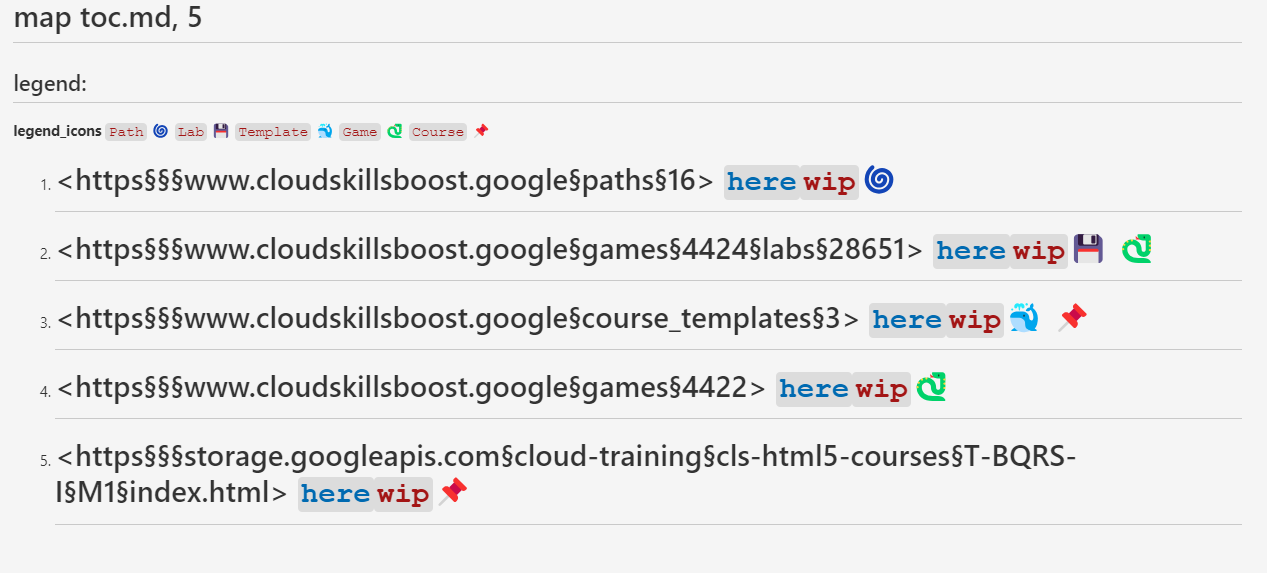
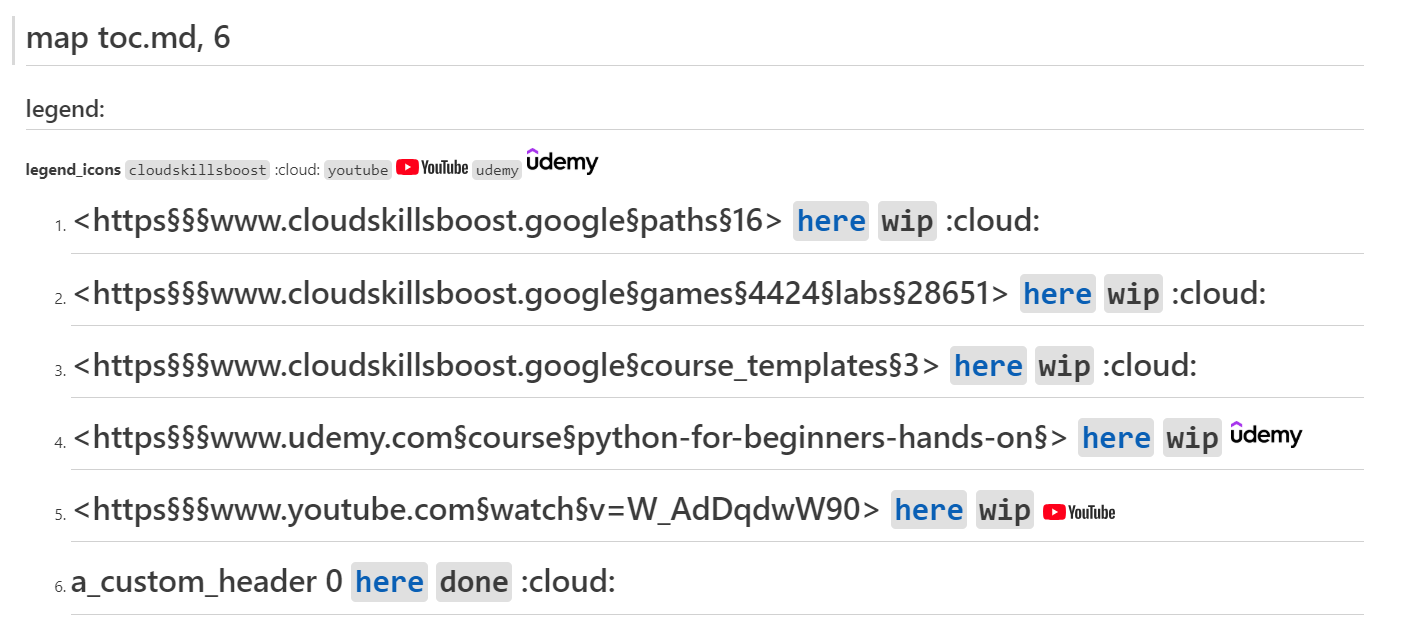
144 add more sample for commons sites like yt udemy coursera etc (#145)

diff --git a/zero_to_one_hundred/tests/tests_zo/test_section.py b/zero_to_one_hundred/tests/tests_zo/test_section.py
@@ -72,54 +72,52 @@ def test_build_from_dir(get_config_map, persist_fs, process_fs):
     )
 
 
-def test_section_is_quest(get_gcp_config_map, persist_fs, process_fs):
+def test_section_is_quest(get_config_map, persist_fs, process_fs):
     http_url = "https://www.cloudskillsboost.google/quests/257"
-    actual = Section(get_gcp_config_map, persist_fs, process_fs, http_url)
+    actual = Section(get_config_map, persist_fs, process_fs, http_url)
     assert actual.is_gcp_quest
 
 
-def test_section_is_lab(get_gcp_config_map, persist_fs, process_fs):
+def test_section_is_lab(get_config_map, persist_fs, process_fs):
     http_url = "https://www.cloudskillsboost.google/course_sessions/3062553/labs"
-    actual = Section(get_gcp_config_map, persist_fs, process_fs, http_url)
+    actual = Section(get_config_map, persist_fs, process_fs, http_url)
     assert actual.is_gcp_lab
 
 
-def test_section_is_template(get_gcp_config_map, persist_fs, process_fs):
+def test_section_is_template(get_config_map, persist_fs, process_fs):
     http_url = "https://www.cloudskillsboost.google/course_templates/536"
-    actual = Section(get_gcp_config_map, persist_fs, process_fs, http_url)
+    actual = Section(get_config_map, persist_fs, process_fs, http_url)
     assert actual.is_gcp_template
 
 
-def test_section_is_gamee(get_gcp_config_map, persist_fs, process_fs):
+def test_section_is_gamee(get_config_map, persist_fs, process_fs):
     http_url = "https://www.cloudskillsboost.google/games/4423"
-    actual = Section(get_gcp_config_map, persist_fs, process_fs, http_url)
+    actual = Section(get_config_map, persist_fs, process_fs, http_url)
     assert actual.is_gcp_game
 
 
-def test_is_datacamp_project(get_datacamp_config_map, persist_fs, process_fs):
+def test_is_datacamp_project(get_config_map, persist_fs, process_fs):
     http_url = "https://app.datacamp.com/learn/projects/1833"
-    actual = Section(get_datacamp_config_map, persist_fs, process_fs, http_url)
+    actual = Section(get_config_map, persist_fs, process_fs, http_url)
     assert actual.is_datacamp_project
 
 
-def test_is_datacamp_tutorial(get_datacamp_config_map, persist_fs, process_fs):
+def test_is_datacamp_tutorial(get_config_map, persist_fs, process_fs):
     http_url = "https://app.datacamp.com/learn/tutorials/git-push-pull"
-    actual = Section(get_datacamp_config_map, persist_fs, process_fs, http_url)
+    actual = Section(get_config_map, persist_fs, process_fs, http_url)
     assert actual.is_datacamp_tutorial
 
 
-def test_is_datacamp_course(get_datacamp_config_map, persist_fs, process_fs):
+def test_is_datacamp_course(get_config_map, persist_fs, process_fs):
     http_url = "https://app.datacamp.com/learn/courses/writing-efficient-python-code"
-    actual = Section(get_datacamp_config_map, persist_fs, process_fs, http_url)
+    actual = Section(get_config_map, persist_fs, process_fs, http_url)
     assert actual.is_datacamp_course
 
 
-def test_gcp_get_format_as_md(get_gcp_config_map, persist_fs, process_fs):
+def test_gcp_get_format_as_md(get_config_map, persist_fs, process_fs):
     http_url = "https://www.cloudskillsboost.google/games/4423"
-    actual = Section.build_from_dir(
-        persist_fs, process_fs, get_gcp_config_map, http_url
-    )
-    assert actual.get_matching_icon_as_md == """:snake:"""
+    actual = Section.build_from_dir(persist_fs, process_fs, get_config_map, http_url)
+    assert actual.get_matching_icon_as_md == ":cloud:"
 
 
 def test_as_mark_down(get_config_map, persist_fs, process_fs, http_url_1):

diff --git a/zero_to_one_hundred/tests/tests_zo/conftest.py b/zero_to_one_hundred/tests/tests_zo/conftest.py
@@ -56,16 +56,6 @@ def get_unsupported_map_yaml_path():
 
 
 @pytest.fixture
-def get_gcp_map_yaml_path():
-    yield get_resource_path + "/gcp_map.yaml"
-
-
-@pytest.fixture
-def get_datacamp_map_yaml_path():
-    yield get_resource_path + "/datacamp_map.yaml"
-
-
-@pytest.fixture
 def get_sample_readme_md_path(get_repo_path):
     yield get_repo_path + "/https§§§cloud.google.com§docs/readme.md"
 
@@ -101,20 +91,6 @@ def env_unsupported_map_yaml(get_unsupported_map_yaml_path):
 
 
 @pytest.fixture
-def env_gcp_map_yaml(get_gcp_map_yaml_path):
-    with mock.patch.dict(os.environ, {AConfigMap.MAP_YAML_PATH: get_gcp_map_yaml_path}):
-        yield
-
-
-@pytest.fixture
-def env_datacamp_map_yaml(get_datacamp_map_yaml_path):
-    with mock.patch.dict(
-        os.environ, {AConfigMap.MAP_YAML_PATH: get_datacamp_map_yaml_path}
-    ):
-        yield
-
-
-@pytest.fixture
 def get_config_map(env_map_yaml, get_map_yaml_path, persist_fs):
     return ZTOHConfigMap(persist_fs)
 
@@ -136,18 +112,6 @@ def get_config_map_sorted_1(
 @pytest.fixture
 def get_unsupported_config_map(
     env_unsupported_map_yaml, get_unsupported_map_yaml_path, persist_fs
-):
-    return ZTOHConfigMap(persist_fs)
-
-
-@pytest.fixture
-def get_gcp_config_map(env_gcp_map_yaml, get_gcp_map_yaml_path, persist_fs):
-    return ZTOHConfigMap(persist_fs)
-
-
-@pytest.fixture
-def get_datacamp_config_map(
-    env_datacamp_map_yaml, get_datacamp_map_yaml_path, persist_fs
 ):
     return ZTOHConfigMap(persist_fs)
 

diff --git a/zero_to_one_hundred/tests/tests_zo/test_ztoh_config_map.py b/zero_to_one_hundred/tests/tests_zo/test_ztoh_config_map.py
@@ -15,32 +15,6 @@ def test_config_map(get_config_map: ZTOHConfigMap):
     assert actual.get_legend_type is None
 
 
-def test_gcp_config_map(get_gcp_config_map: ZTOHConfigMap):
-    actual = get_gcp_config_map
-    assert actual.get_type == ZTOH_MAP
-    assert actual.get_repo_path is not None
-    assert actual.get_repo_map_md == "toc.md"
-    assert actual.get_legend_icons == [
-        ZTOHConfigMap.LegendIcons("Path", ":cyclone:", "path"),
-        ZTOHConfigMap.LegendIcons("Lab", ":floppy_disk:", "lab"),
-        ZTOHConfigMap.LegendIcons("Template", ":whale:", "template"),
-        ZTOHConfigMap.LegendIcons("Game", ":snake:", "game"),
-        ZTOHConfigMap.LegendIcons("Course", ":pushpin:", "course"),
-    ]
-
-
-def test_datacamp_config_map(get_datacamp_config_map: ZTOHConfigMap):
-    actual = get_datacamp_config_map
-    assert actual.get_type == ZTOH_MAP
-    assert actual.get_repo_path is not None
-    assert actual.get_repo_map_md == "toc.md"
-    assert actual.get_legend_icons == [
-        ZTOHConfigMap.LegendIcons("Project", ":cyclone:", "project"),
-        ZTOHConfigMap.LegendIcons("Tutorial", ":floppy_disk:", "tutorial"),
-        ZTOHConfigMap.LegendIcons("Course", ":whale:", "course"),
-    ]
-
-
 def test_unsupported_config_map(get_unsupported_config_map: ZTOHConfigMap):
     actual = get_unsupported_config_map
     assert actual.get_type == "unsupported-map"

diff --git a/zero_to_one_hundred/tests/tests_zo/test_map.py b/zero_to_one_hundred/tests/tests_zo/test_map.py
@@ -27,9 +27,15 @@ def test_as_mark_down(
     current = actual.as_mark_down()
     expected = """
 # map toc.md, 2
+
 ## legend:
 
-1.[`here`](./0to100/https§§§cloud.google.com§zzz/readme.md) `wip`
+**legend_icons**
+`cloudskillsboost` :cloud:
+`youtube` <img src='https://upload.wikimedia.org/wikipedia/commons/b/b8/YouTube_Logo_2017.svg' alt='YouTube Logo' width='64'>
+`udemy` <img src='https://upload.wikimedia.org/wikipedia/commons/thumb/e/e3/Udemy_logo.svg/1920px-Udemy_logo.svg.png' alt='Udemy' width='64'>
+
+1.[`here`](./0to100/https§§§cloud.google.com§zzz/readme.md) `wip` 
 1.[`here`](./0to100/https§§§cloud.google.com§abc/readme.md) `wip`
 """
     assert str_relaxed(current) == str_relaxed(expected)

diff --git a/zero_to_one_hundred/tests/tests_zo/test_ztoh_factory_provider.py b/zero_to_one_hundred/tests/tests_zo/test_ztoh_factory_provider.py
@@ -16,6 +16,6 @@ def test_pass(get_config_map, persist_fs, process_fs):
     assert isinstance(actual.provide(), ZTOHFactory)
 
 
-def test_provide__unsupported(env_unsupported_map_yaml, persist_fs, process_fs):
+def test_provide_unsupported(env_unsupported_map_yaml, persist_fs, process_fs):
     with pytest.raises(NotImplementedError):
         ZTOHFactoryProvider(persist_fs, process_fs).provide()

diff --git a/setup.py b/setup.py
@@ -12,7 +12,6 @@ with open("README.md", "r") as fh:
 
 setup(
     name="0to100",
-    version="0.5.5",
     author="obar1",
     packages=find_packages(),
     author_email="obar1+gh@pm.me",

diff --git a/toc_zo.md b/toc_zo.md
@@ -3,15 +3,13 @@
 ## legend:
 
 **legend_icons**
-`Path` :cyclone:
-`Lab` :floppy_disk:
-`Template` :whale:
-`Game` :snake:
-`Course` :pushpin:
+`cloudskillsboost` :cloud:
+`youtube` <img src='https://upload.wikimedia.org/wikipedia/commons/b/b8/YouTube_Logo_2017.svg' alt='YouTube Logo' width='64'>
+`udemy` <img src='https://upload.wikimedia.org/wikipedia/commons/thumb/e/e3/Udemy_logo.svg/1920px-Udemy_logo.svg.png' alt='Udemy' width='64'>
 
-1. # <https§§§www.cloudskillsboost.google§paths§16> [`here`](./0to100/https§§§www.cloudskillsboost.google§paths§16/readme.md) `wip` :cyclone:
-1. # <https§§§www.cloudskillsboost.google§games§4424§labs§28651> [`here`](./0to100/https§§§www.cloudskillsboost.google§games§4424§labs§28651/readme.md) `wip` :floppy_disk: :snake:
-1. # <https§§§www.cloudskillsboost.google§course_templates§3> [`here`](./0to100/https§§§www.cloudskillsboost.google§course_templates§3/readme.md) `wip` :whale: :pushpin:
-1. # <https§§§www.cloudskillsboost.google§games§4422> [`here`](./0to100/https§§§www.cloudskillsboost.google§games§4422/readme.md) `wip` :snake:
-1. # <https§§§storage.googleapis.com§cloud-training§cls-html5-courses§T-BQRS-I§M1§index.html> [`here`](./0to100/https§§§storage.googleapis.com§cloud-training§cls-html5-courses§T-BQRS-I§M1§index.html/readme.md) `wip` :pushpin:
-1. # a_custom_header 0 [`here`](./0to100/https§§§www.cloudskillsboost.google§0/readme.md) `done` 
+1. # <https§§§www.cloudskillsboost.google§paths§16> [`here`](./0to100/https§§§www.cloudskillsboost.google§paths§16/readme.md) `wip` :cloud:
+1. # <https§§§www.cloudskillsboost.google§games§4424§labs§28651> [`here`](./0to100/https§§§www.cloudskillsboost.google§games§4424§labs§28651/readme.md) `wip` :cloud:
+1. # <https§§§www.cloudskillsboost.google§course_templates§3> [`here`](./0to100/https§§§www.cloudskillsboost.google§course_templates§3/readme.md) `wip` :cloud:
+1. # <https§§§www.udemy.com§course§python-for-beginners-hands-on§> [`here`](./0to100/https§§§www.udemy.com§course§python-for-beginners-hands-on§/readme.md) `wip` <img src='https://upload.wikimedia.org/wikipedia/commons/thumb/e/e3/Udemy_logo.svg/1920px-Udemy_logo.svg.png' alt='Udemy' width='64'>
+1. # <https§§§www.youtube.com§watch§v=W_AdDqdwW90> [`here`](./0to100/https§§§www.youtube.com§watch§v=W_AdDqdwW90/readme.md) `wip` <img src='https://upload.wikimedia.org/wikipedia/commons/b/b8/YouTube_Logo_2017.svg' alt='YouTube Logo' width='64'>
+1. # a_custom_header 0 [`here`](./0to100/https§§§www.cloudskillsboost.google§0/readme.md) `done` :cloud:

diff --git a/README.md b/README.md
@@ -20,6 +20,7 @@ bash demo.sh zo
 ``` 
 
 ![](2dc4491c-fa27-4c5e-bd0c-71951b3ef0e5.png)
+
 [here](./toc_zo.md)
 
 ```bash
@@ -27,6 +28,7 @@ bash demo.sh sb
 ```
 
 ![](z05502bb-4b90-422f-9624-568d9f02cd01.png)
+
 [here](./toc_sb.md)
 
 
@@ -180,26 +182,7 @@ url=https://learning.oreilly.com/library/view/hunt-the-pragmatic-programmer/0201
 ./main.py sb snatch_book $url
 ```
 
-and you have a `toc.md` for free to use as your index (bookmark it)
+and you have a `toc` for free to use as your index (bookmark it)
 
 > as I use myself Lorenzo's great utility `safaribooks` I added some code to convert the downloaded epub contents into a related pdf and split that in chunks so I can easily use it on ipad or better remarkable for studying and later sync back in a repo for hands-on code... they call that **learning by doing** 🖖🏻
 
-
-
-### tools
-> when you start to have a a few 0to100 based folders
-
-
-[gist to sync multiple 0to100 based repos](https://gist.github.com/obar1/771b1992368262737d9f25fcf17ce1c1)
-[gist venv auto activate for 0to100 folders](https://gist.github.com/obar1/212e4c778548f8bcdc6e9c1b05856f3f)
-
-## online example 
-
-- zo
-
-https://github.com/obar1/zero2hero
-
-- sb
-> mostly private contents,   `sorry but I don't want to get suited :P`
-
-https://github.com/obar1/0to100.oreilly

diff --git a/toc_sb.md b/toc_sb.md
@@ -1,7 +1,7 @@
 
 # TOC
 ## `2` metabook
-### 2025/03/31-08:05:29
+### 2025/04/11-20:17:18
 
 ## legend:
 
